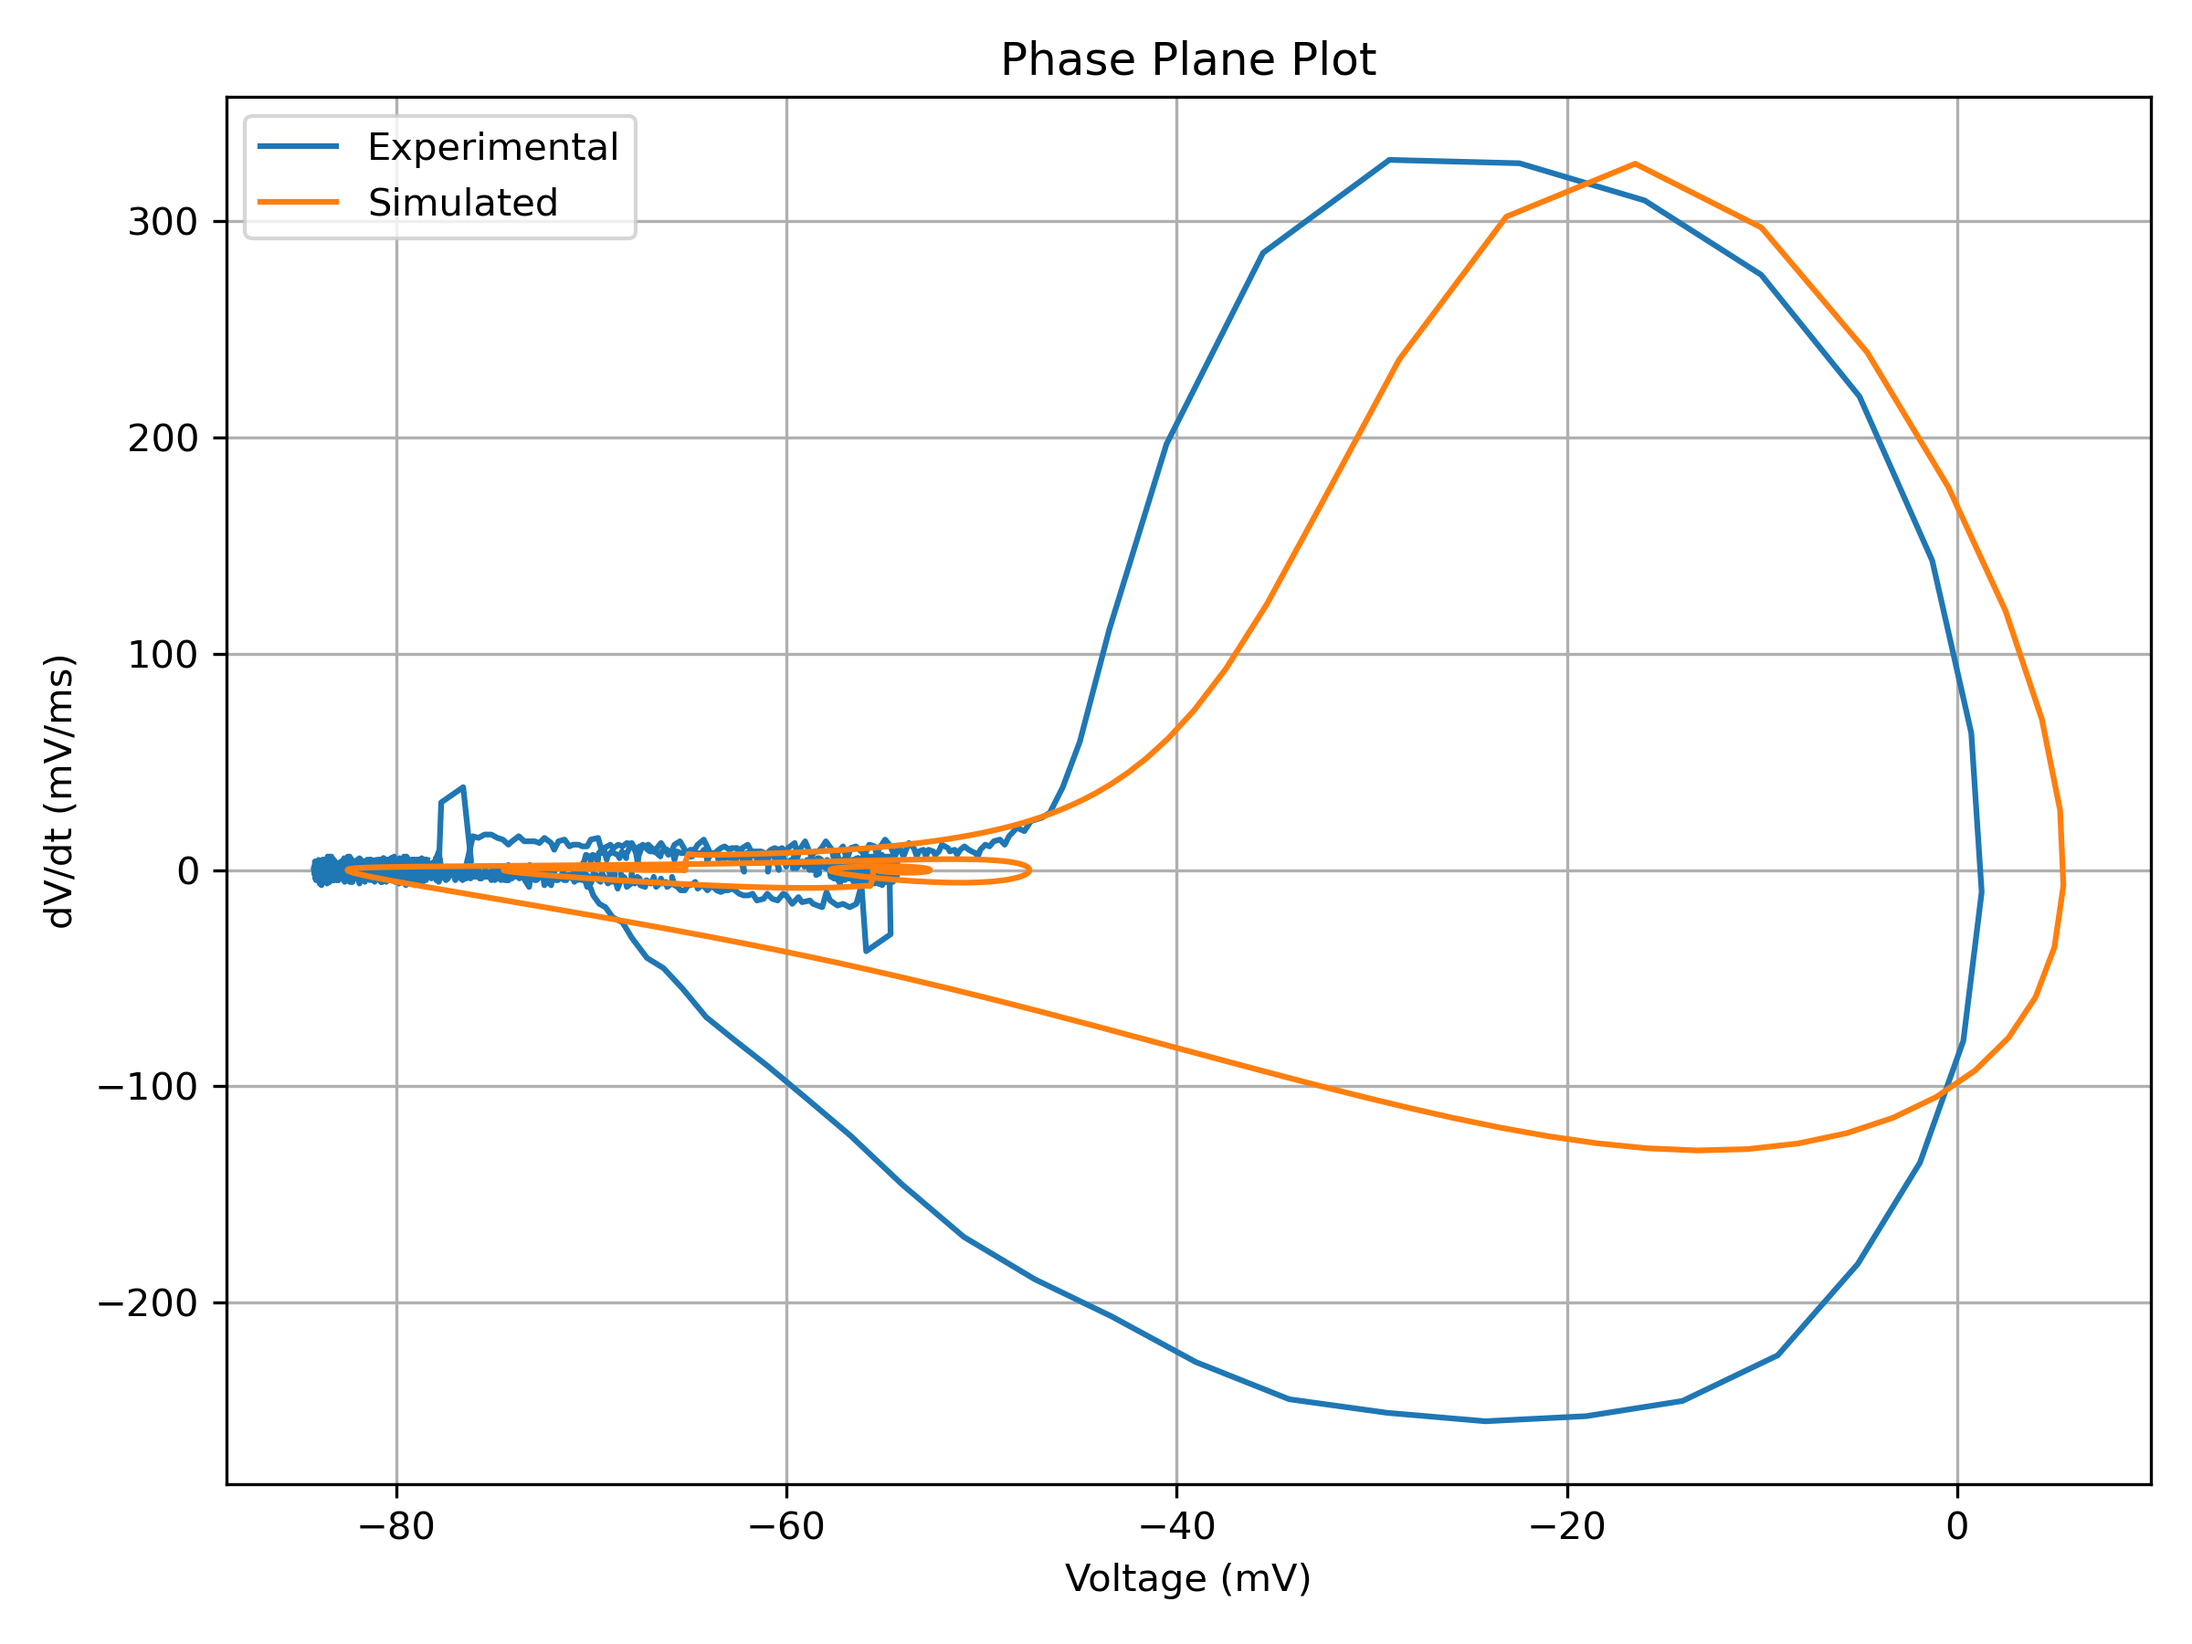
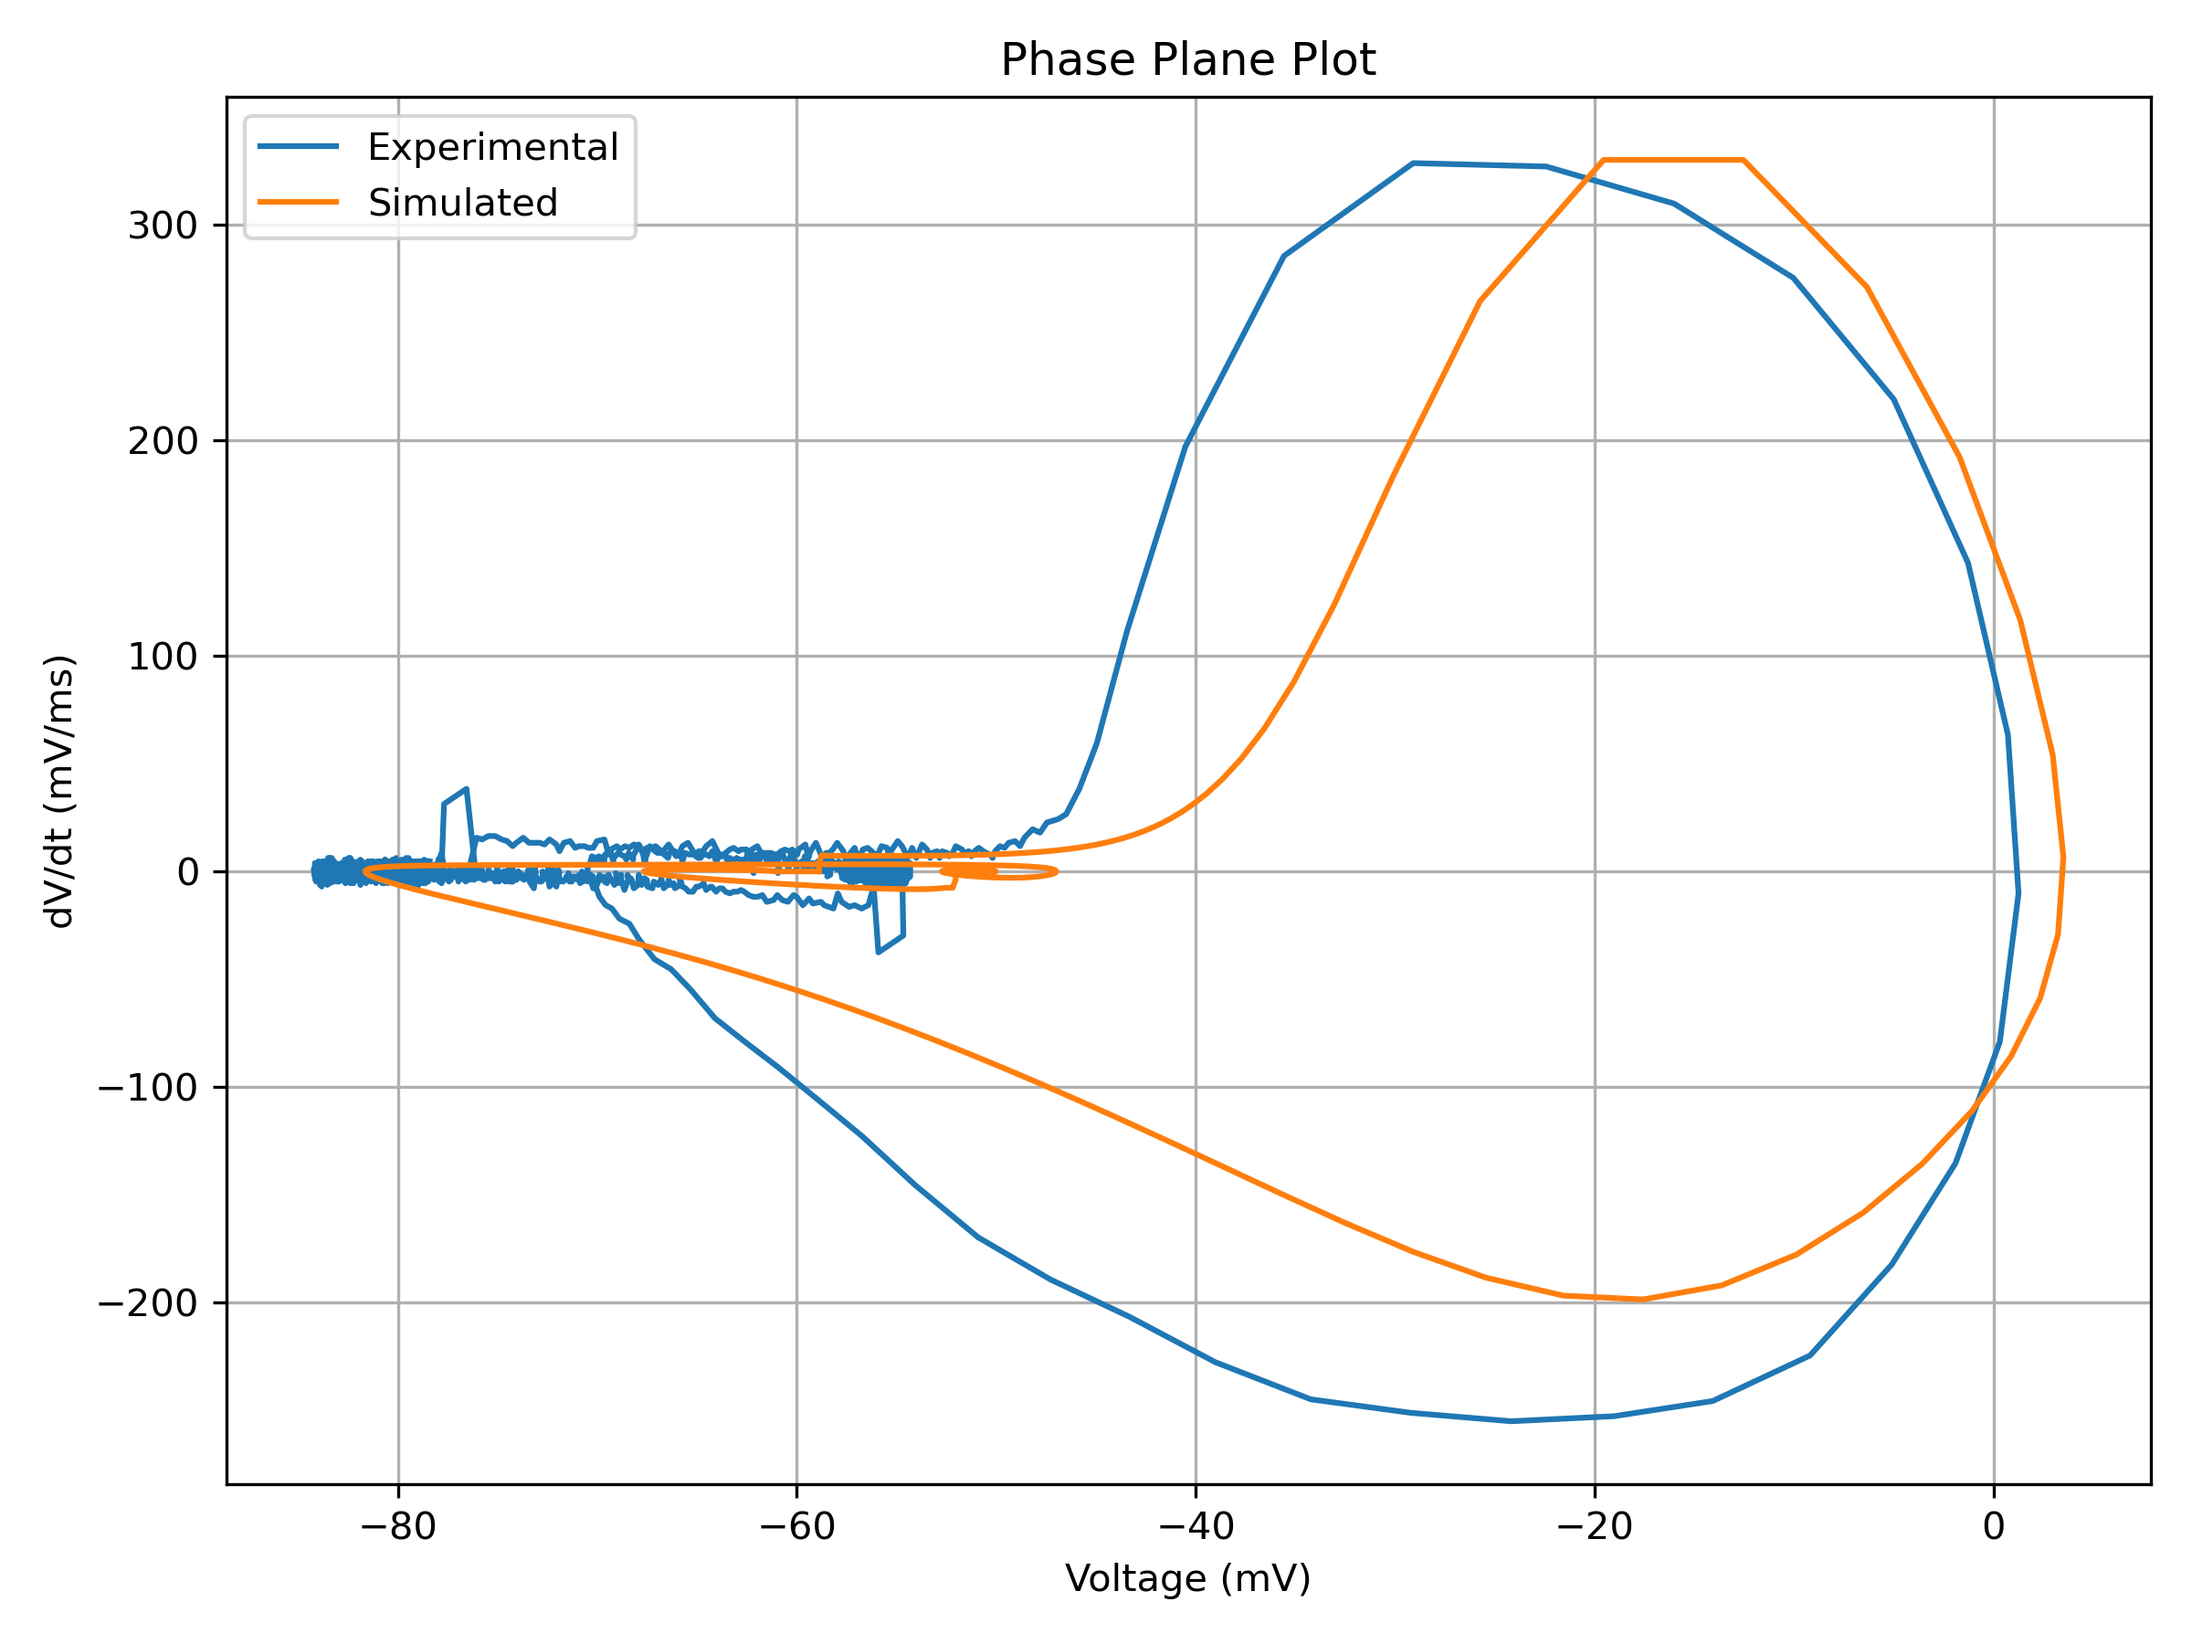
Commit changes in the main.py that pick correctly the values from params and save them to the csv files

diff --git a/optimization/mntb_fit_project/simulation.py b/optimization/mntb_fit_project/simulation.py
@@ -37,7 +37,6 @@ def run_simulation(soma, axon, dend, params):
     h.steps_per_ms = int(1.0 / h.dt)
     h.v_init = config.v_init
     mFun.custom_init(config.v_init)
-    mFun.ss_init()
 
     h.tstop = stim.delay + stim.dur
     h.continuerun(510)
@@ -89,7 +88,7 @@ def extract_features(trace, time):
 def feature_cost(sim_trace, exp_trace, time):
     sim_feat = extract_features(sim_trace, time)
     exp_feat = extract_features(exp_trace, time)
-    weights = {'peak': 10, 'amp': 10, 'width': 1, 'threshold': 1, 'latency':1, 'AHP':1}
+    weights = {'rest':10,'peak': 10, 'amp': 10, 'width': 1, 'threshold': 1, 'latency':1, 'AHP':1}
 
     error = 0
     for k in weights:
@@ -102,12 +101,12 @@ def penalty_terms(v_sim,stim_amp=None):
     rest = v_sim[0]
     penalty = 0
     if peak < -10 or peak > 10:
-        penalty += 100
-    if rest > -50 or rest < -80:
+        penalty += 1000
+    if rest > -60 or rest < -80:
         penalty += 1000
     if stim_amp is not None:
         if stim_amp < 0.1 or stim_amp > 1.5:
-            penalty += 500
+            penalty += 1000
     return penalty
 
 def max_dvdt(trace, time):

diff --git a/optimization/mntb_fit_project/config.py b/optimization/mntb_fit_project/config.py
@@ -40,8 +40,8 @@ steps_per_ms = (1/h_dt)
 bounds = [
     (400, 700),    # gna (axon Na conductance)
     (300, 2000),    # gkht (soma KHT conductance)
-    (1, 20),      # gklt (axon KLT conductance)
-    (50, 200),      #gh (soma and dendrites)
+    (1, 200),      # gklt (axon KLT conductance)
+    (50, 80),      #gh (soma and dendrites)
     (5,20),          #gleak (all)
     (50, 200),     # cam (Na activation)
     (0.01, 0.2),  # kam (Na activation slope)

diff --git a/optimization/mntb_fit_project/main.py b/optimization/mntb_fit_project/main.py
@@ -51,7 +51,7 @@ params_opt = result.x
 t_sim, v_sim = run_simulation(soma, axon, dend, params_opt)
 
 param_names = [
-    "gna", "gkht", "gklt",
+    "gna", "gkht", "gklt","gh","gleak",
     "cam", "kam", "cbm", "kbm",
     "cah", "kah", "cbh", "kbh",
     "can", "kan", "cbn", "kbn",
